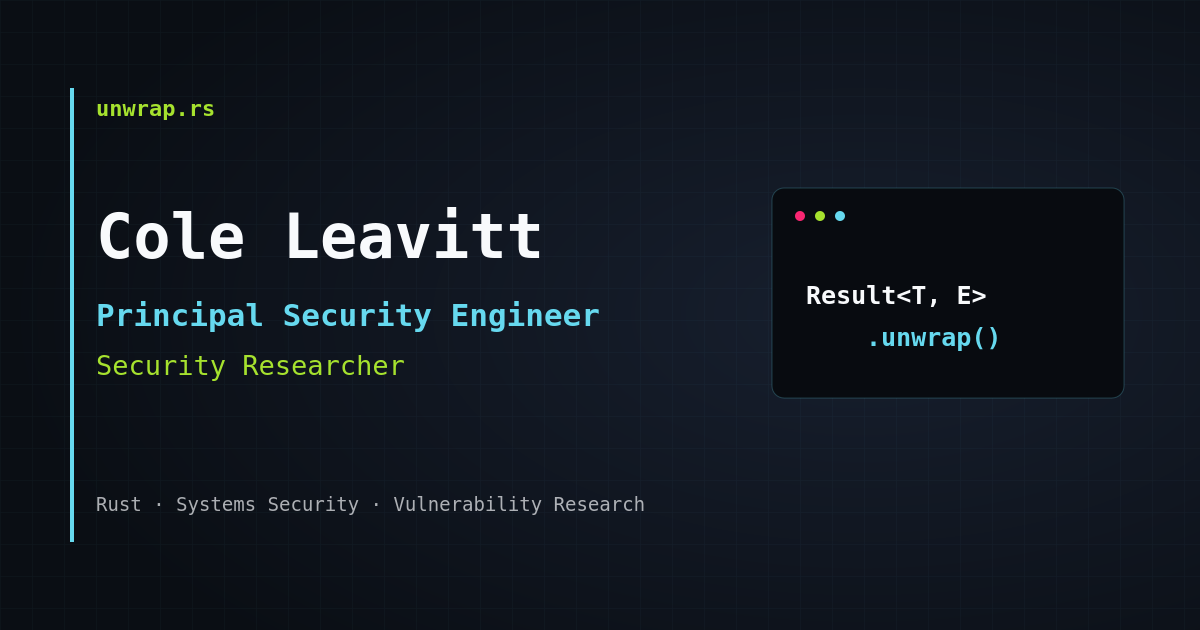
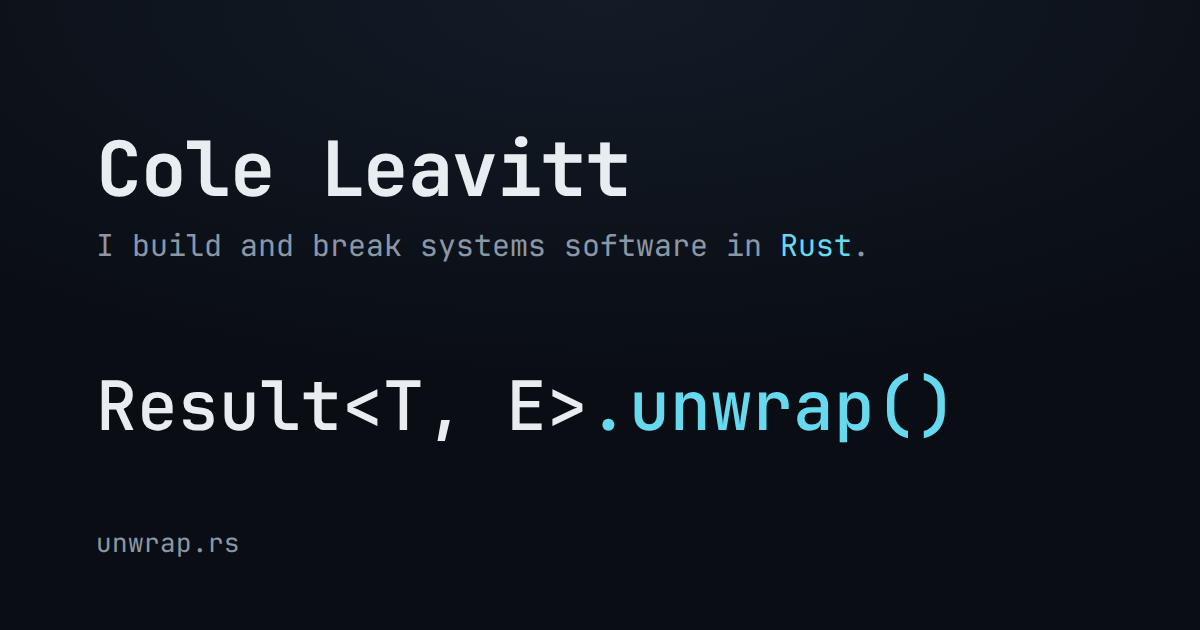
feat(home): add reMarkable work and a new card
Projects gains the reMarkable work (server, Rust library, tools).
Research links to the write-up, with the PoC as a reference. The PGP
line links to the Keyoxide proof and keeps its label with the first
group on phones. The social card and favicon drop the old lime and
terminal style for the site's own type and single accent.

diff --git a/frontend/index.html b/frontend/index.html
@@ -19,7 +19,7 @@
   <meta property="og:image:type" content="image/png" />
   <meta property="og:image:width" content="1200" />
   <meta property="og:image:height" content="630" />
-  <meta property="og:image:alt" content="Cole Leavitt — Principal Security Engineer" />
+  <meta property="og:image:alt" content="Cole Leavitt: I build and break systems software in Rust. Result&lt;T, E&gt;.unwrap()" />
   <meta property="profile:first_name" content="Cole" />
   <meta property="profile:last_name" content="Leavitt" />
 
@@ -27,7 +27,7 @@
   <meta name="twitter:title" content="Cole Leavitt — Principal Security Engineer" />
   <meta name="twitter:description" content="Principal security engineer and security researcher focused on Rust, systems security, and vulnerability research." />
   <meta name="twitter:image" content="https://unwrap.rs/social-card.png" />
-  <meta name="twitter:image:alt" content="Cole Leavitt — Principal Security Engineer" />
+  <meta name="twitter:image:alt" content="Cole Leavitt: I build and break systems software in Rust. Result&lt;T, E&gt;.unwrap()" />
 
   <script type="application/ld+json">
     {
@@ -88,7 +88,7 @@
         <a href="https://www.linkedin.com/in/coleleavitt/" rel="noopener noreferrer">LinkedIn</a>
         <a href="mailto:cole@unwrap.rs">Email</a>
       </nav>
-      <p class="pgp">PGP <a href="/pgp.asc" title="OpenPGP key"><span>DEC2 3202 3B77 3F66 98EA</span> <span>54F1 1DFB 3167 910E 6193</span></a></p>
+      <p class="pgp"><a href="/pgp.asc" title="OpenPGP key"><span>PGP DEC2 3202 3B77 3F66 98EA</span> <span>54F1 1DFB 3167 910E 6193</span></a><a href="https://keyoxide.org/DEC232023B773F6698EA54F11DFB3167910E6193">verify</a></p>
     </header>
 
     <div id="animation-mount" class="hero" role="img" aria-label="Result&lt;T, E&gt;.unwrap()">
@@ -99,10 +99,11 @@
       <h2 id="research-heading" class="section-label">Research</h2>
       <ul class="entries">
         <li>
-          <a href="https://github.com/coleleavitt/AAMVA-PDF417-Vulnerability-Research"><span class="entry-name">AAMVA PDF417</span><span class="entry-desc">ID scanners accept spoofed driver's license barcodes</span><span class="entry-meta">2025</span></a>
+          <a href="/writing/aamva-pdf417/"><span class="entry-name">AAMVA PDF417</span><span class="entry-desc">ID scanners accept spoofed driver's license barcodes</span><span class="entry-meta">2025</span></a>
           <ul class="entry-refs" aria-label="CVEs">
             <li><a href="https://www.cve.org/CVERecord?id=CVE-2025-31337">CVE-2025-31337</a> IDScan.net</li>
             <li><a href="https://www.cve.org/CVERecord?id=CVE-2025-31336">CVE-2025-31336</a> TokenWorks</li>
+            <li><a href="https://github.com/coleleavitt/AAMVA-PDF417-Vulnerability-Research">PoC</a> signed evidence</li>
           </ul>
         </li>
       </ul>
@@ -124,9 +125,17 @@
       <h2 id="projects-heading" class="section-label">Projects</h2>
       <ul class="entries">
         <li><a href="https://github.com/coleleavitt/unlace"><span class="entry-name">unlace</span><span class="entry-desc">Open-source decompiler in Rust with Mach-O, Objective-C and Swift support</span></a></li>
+        <li>
+          <a href="https://github.com/coleleavitt/remarkable-ecosystem"><span class="entry-name">reMarkable</span><span class="entry-desc">Reverse-engineered sync protocols and a self-hosted cloud</span></a>
+          <ul class="entry-refs" aria-label="reMarkable repositories">
+            <li><a href="https://github.com/coleleavitt/remarkable-server">remarkable-server</a> sync protocols V1 to V3</li>
+            <li><a href="https://github.com/coleleavitt/remarkable-rs">remarkable-rs</a> 15 crates</li>
+            <li><a href="https://github.com/coleleavitt/remarkable-ecosystem">remarkable-ecosystem</a> 11 tools</li>
+          </ul>
+        </li>
         <li><a href="https://github.com/coleleavitt/ida-mcp-server"><span class="entry-name">ida-mcp-server</span><span class="entry-desc">IDA Pro plugin exposing 170+ analysis tools to coding agents over MCP</span></a></li>
         <li><a href="https://github.com/coleleavitt/jsbeautify"><span class="entry-name">jsbeautify</span><span class="entry-desc">JavaScript beautifier, deobfuscator and bundle unpacker built on oxc</span></a></li>
-        <li><a href="https://github.com/coleleavitt/servant-rs"><span class="entry-name">servant-rs</span><span class="entry-desc">Rust port of Haskell Servant: one typed API drives server, client and docs</span></a></li>
+        <li><a href="https://github.com/coleleavitt/servant-rs"><span class="entry-name">servant-rs</span><span class="entry-desc">Rust port of Haskell Servant: one typed API for server, client and docs</span></a></li>
       </ul>
     </section>
     <section class="section" aria-labelledby="upstream-heading">

diff --git a/frontend/index.css b/frontend/index.css
@@ -115,6 +115,10 @@ a {
 }
 
 .pgp {
+    display: flex;
+    flex-wrap: wrap;
+    align-items: center;
+    column-gap: 1.5rem;
     margin: 0;
     color: var(--muted);
     font-size: 0.8125rem;
@@ -130,6 +134,12 @@ a {
     text-decoration: none;
     font-variant-numeric: tabular-nums;
     transition: color 0.15s ease;
+}
+
+.pgp a + a {
+    text-decoration: underline;
+    text-decoration-color: var(--faint);
+    text-underline-offset: 0.3em;
 }
 
 .pgp a:hover {
@@ -220,7 +230,7 @@ a {
 
 .entries a {
     display: grid;
-    grid-template-columns: var(--name-col) 1fr auto;
+    grid-template-columns: var(--name-col) 1fr;
     column-gap: 1.5rem;
     align-items: baseline;
     min-height: 44px;
@@ -242,6 +252,10 @@ a {
 
 .entries a:hover .entry-name {
     color: var(--accent);
+}
+
+.entries a:has(.entry-meta) {
+    grid-template-columns: var(--name-col) 1fr auto;
 }
 
 .entry-meta {

diff --git a/CLAUDE.md b/CLAUDE.md
@@ -56,9 +56,9 @@ Do not add, unless Cole asks:
 
 ## Current State
 
-- Branch `dev`. The homepage/writing refactor of 2026-11-07 is uncommitted until Cole reviews it.
+- Branch `dev`. The 2026-11-07 refactor is merged but not deployed; production still runs the old site until `./deploy.sh`.
 - Layout: one left-aligned column (`--column: 50rem`) shared by the homepage and writing pages. One accent (`--accent: #66d9ef`).
-- No posts are published; `content/writing/post-template.md` is a draft (`draft: true`).
+- One post: `content/writing/aamva-pdf417.md` (the AAMVA CVEs; facts only from the public research repo). `post-template.md` is a draft (`draft: true`).
 - Unit tests: `server` (path resolution, content types) and `sitegen` (frontmatter, escaping, dates, feed/sitemap, homepage injection). `frontend/tests/typing_animation_test.rs` only runs on `wasm32` in a browser.
 
 ## Working Rules
